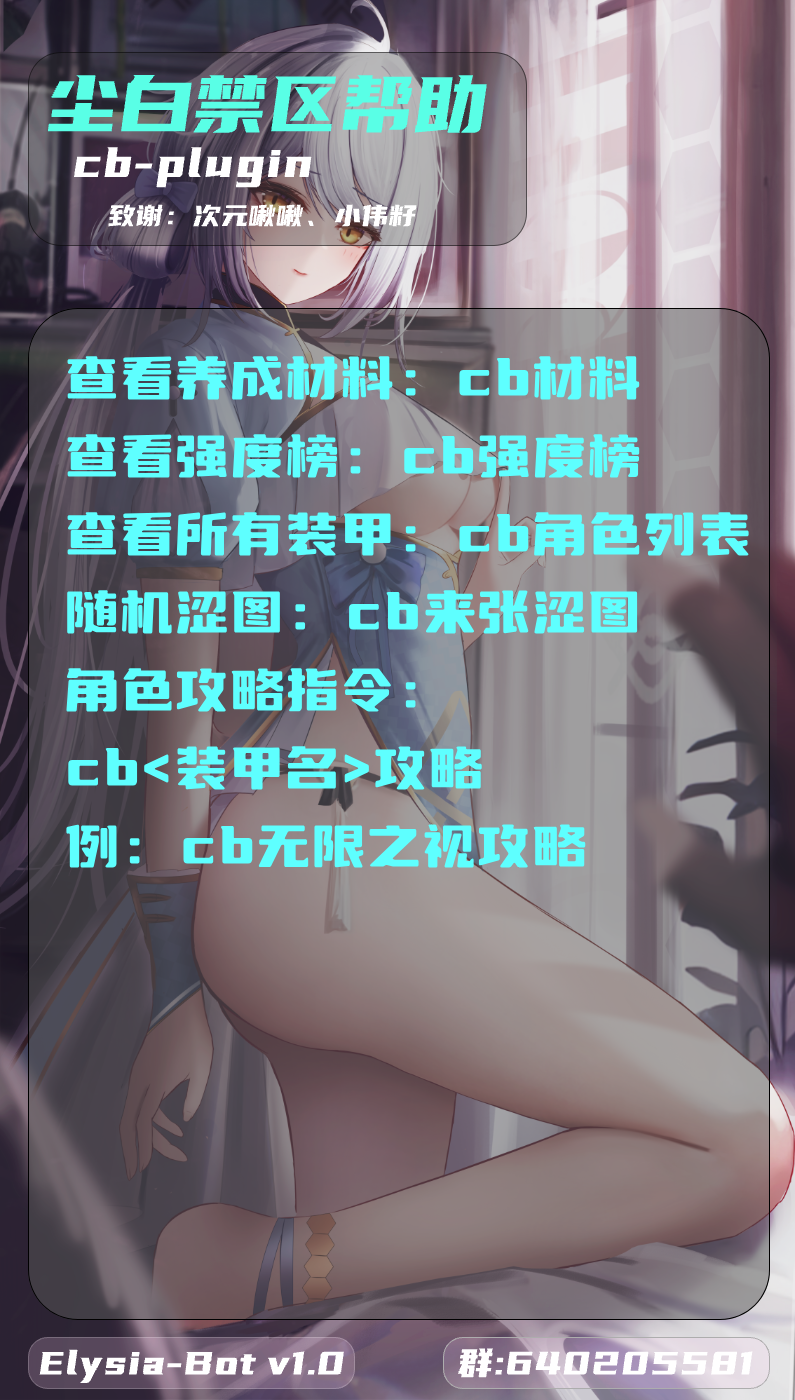
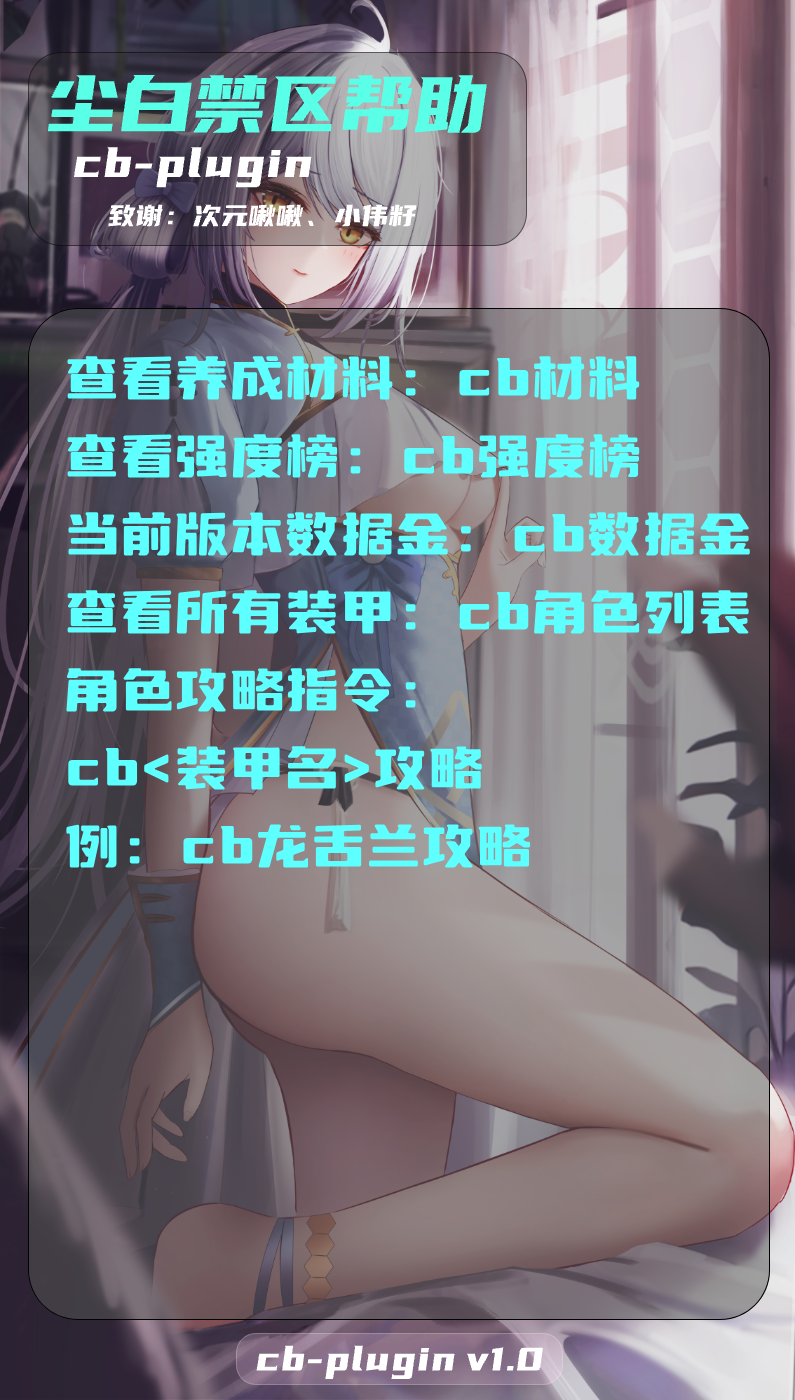
v2.1

Changed region(s): [[0.0604, 0.3686, 0.966, 0.4607], [0.0302, 0.9521, 0.966, 1.0], [0.3019, 0.5836, 0.7547, 0.645]]

diff --git a/apps/guide.js b/apps/guide.js
@@ -17,27 +17,27 @@ function getImagesByName (name) {
   return images
 }
 
-export class cb_guide extends plugin {
+export class cbGuide extends plugin {
   constructor () {
     super({
-      name: 'cb_guide',
+      name: 'cbGuide',
       dsc: '尘白角色攻略',
       event: 'message',
       priority: 250,
       rule: [
         {
           reg: '^#?(尘白|cb)(\\S+)攻略$',
-          fnc: 'cb_guide'
+          fnc: 'cbGuide'
         },
         {
           reg: '^#?(尘白|cb)角色列表$',
-          fnc: 'guide_list'
+          fnc: 'guideList'
         }
       ]
     })
   }
 
-  async cb_guide (e) {
+  async cbGuide (e) {
     const match = e.msg.match(/^#?(尘白|cb)(\S+)攻略$/)
     if (!match) {
       await e.reply('指令格式错误，请使用(#)尘白/cb[角色名]攻略。')
@@ -54,7 +54,7 @@ export class cb_guide extends plugin {
     }
   }
 
-  async guide_list (e) {
-    e.reply('里芙：无限之视/狂猎/星期三\n芬妮：辉耀/咎冠/黄金狮子\n瑟瑞斯： 瞬刻/小金鱼\n琴诺：悖谬/双面\n凯西娅：蓝闪\n恩雅：羽蜕/姐姐大人\n伊切尔：豹豹\n苔丝：魔术师\n晴：藏锋/旧日王辉\n猫汐尔：溯影/猫猫\n安卡希雅：辉夜/不可显示\n辰星：云篆/观测者\n肴：冬至/养生专家\n茉莉安：雨燕/绷带小姐\n芙缇雅：缄默/小太阳\n妮塔：四手')
+  async guideList (e) {
+    e.reply('薇蒂雅：龙舌兰\n里芙：无限之视/狂猎/星期三\n芬妮：辉耀/咎冠/黄金狮子\n瑟瑞斯： 瞬刻/小金鱼\n琴诺：悖谬/双面\n凯西娅：蓝闪\n恩雅：羽蜕/姐姐大人\n伊切尔：豹豹\n苔丝：魔术师\n晴：藏锋/旧日王辉\n猫汐尔：溯影/猫猫\n安卡希雅：辉夜/不可显示\n辰星：云篆/观测者\n肴：冬至/养生专家\n茉莉安：雨燕/绷带小姐\n芙缇雅：缄默/小太阳\n妮塔：四手')
   }
 }

diff --git a/apps/material.js b/apps/material.js
@@ -1,24 +1,24 @@
-export class cb_material extends plugin {
+export class cbMaterial extends plugin {
   constructor () {
     super({
-      name: 'cb_material',
+      name: 'cbMaterial',
       dsc: '尘白养成材料',
       event: 'message',
       priority: 250,
       rule: [
         {
           reg: '^#?(尘白|cb)(材料|养成)',
-          fnc: 'cb_material'
+          fnc: 'cbMaterial'
         }
       ]
     })
   }
 
-  async cb_material (e) {
-    const image1 = `plugins/cb-plugin/resources/material/1.png`
-    const image2 = `plugins/cb-plugin/resources/material/2.png`
-    const image3 = `plugins/cb-plugin/resources/material/3.png`
-    let msg = ["武器材料：",segment.image(image1),"神格神经：",segment.image(image2),"信源解析：",segment.image(image3)]
+  async cbMaterial (e) {
+    const image1 = 'plugins/cb-plugin/resources/material/1.png'
+    const image2 = 'plugins/cb-plugin/resources/material/2.png'
+    const image3 = 'plugins/cb-plugin/resources/material/3.png'
+    let msg = ['武器材料：', segment.image(image1), '神格神经：', segment.image(image2), '信源解析：', segment.image(image3)]
     e.reply(msg)
   }
 }

diff --git a/apps/rank.js b/apps/rank.js
@@ -1,23 +1,23 @@
-export class cb_rank extends plugin {
+export class cbRank extends plugin {
   constructor () {
     super({
-      name: 'cb_rank',
+      name: 'cbRank',
       dsc: '尘白强度榜',
       event: 'message',
       priority: 250,
       rule: [
         {
           reg: '^#?(尘白强度榜|cb强度榜)$',
-          fnc: 'cb_rank'
+          fnc: 'cbRank'
         }
       ]
     })
   }
 
-  async cb_rank (e) {
+  async cbRank (e) {
     const image1 = 'plugins/cb-plugin/resources/rank/1.png'
     const image2 = 'plugins/cb-plugin/resources/rank/2.png'
-    let msg = ["精神拟境强度榜：",segment.image(image1),"长线关卡强度榜：",segment.image(image2)]
+    let msg = ['精神拟境强度榜：', segment.image(image1), '长线关卡强度榜：', segment.image(image2)]
     e.reply(msg)
   }
 }

diff --git a/apps/help.js b/apps/help.js
@@ -1,21 +1,21 @@
-export class cb_help extends plugin {
+export class cbHelp extends plugin {
   constructor () {
     super({
-      name: 'cb_help',
+      name: 'cbHelp',
       dsc: '尘白帮助',
       event: 'message',
       priority: 250,
       rule: [
         {
           reg: '^#?(尘白帮助|cb帮助)$',
-          fnc: 'cb_help'
+          fnc: 'cbHelp'
         }
       ]
     })
   }
 
-  async cb_help (e) {
-    const image = `plugins/cb-plugin/resources/help/help.png`
+  async cbHelp (e) {
+    const image = 'plugins/cb-plugin/resources/help/help.png'
     await e.reply([
       segment.image(image)
     ])

diff --git a/index.js b/index.js
@@ -1,4 +1,4 @@
-import fs from 'node:fs';
+import fs from 'node:fs'
 
 logger.info('----------(*ˉ︶ˉ*)----------')
 logger.info('尘白禁区插件 cb-plugin 初始化')
@@ -19,9 +19,9 @@ for (let i in files) {
   let name = files[i].replace('.js', '')
 
   if (ret[i].status != 'fulfilled') {
-      logger.error(`载入插件错误：${logger.red(name)}`)
-      logger.error(ret[i].reason)
-      continue
+    logger.error(`载入插件错误：${logger.red(name)}`)
+    logger.error(ret[i].reason)
+    continue
   }
   apps[name] = ret[i].value[Object.keys(ret[i].value)[0]]
 }

diff --git a/apps/gold.js b/apps/gold.js
@@ -1,0 +1,23 @@
+export class cbGold extends plugin {
+  constructor () {
+    super({
+      name: 'cbGold',
+      dsc: '尘白数据金',
+      event: 'message',
+      priority: 250,
+      rule: [
+        {
+          reg: '^#?cb数据金$',
+          fnc: 'cbGold'
+        }
+      ]
+    })
+  }
+
+  async cbGold (e) {
+    const image1 = 'plugins/cb-plugin/resources/gold/1.jpg'
+    const image2 = 'plugins/cb-plugin/resources/gold/2.png'
+    let msg = [segment.image(image1), segment.image(image2)]
+    e.reply(msg)
+  }
+}

diff --git a/README.md b/README.md
@@ -1,6 +1,8 @@
 # cb-plugin
 **_cb-Plugin是一个Yunzai-Bot的游戏类插件，提供尘白禁区的相关功能。_**
 
+![cb-plugin](resources/cb-Plugin.png)
+
 ## 安装教程 💡
 ### 自动安装（推荐）
 1. 在Yunzai目录打开终端，运行
@@ -19,9 +21,10 @@
 - 帮助图：cb帮助
 - 查看养成材料：cb材料
 - 查看强度榜：cb强度榜
+- 当前版本数据金：cb数据金
 - 查看所有装甲：cb角色列表
 - 角色攻略指令：cb<装甲名>攻略  
-例：cb无限之视攻略
+例：cb龙舌兰攻略
 
 ## 免责声明 ❗
 
